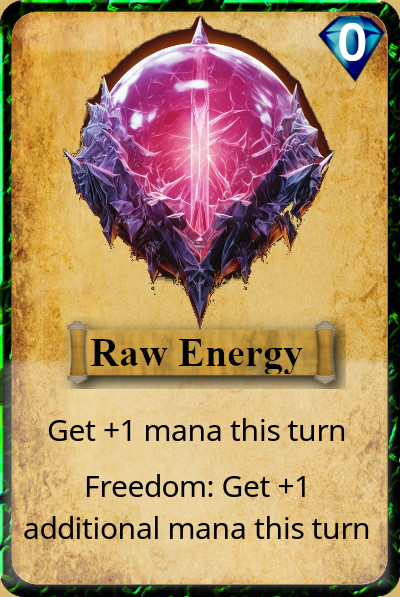
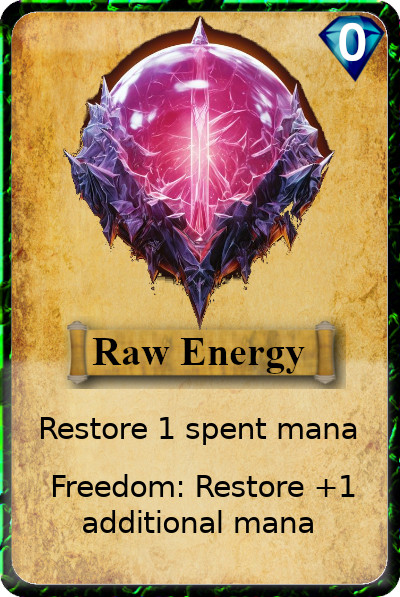
fixed the wording on raw energy

diff --git a/preload.js b/preload.js
@@ -8,8 +8,8 @@ Game design and programming: Copyright 2023 Erlend Kulander Kvitrud, all rights 
 
 let gameState = {};
 gameState.version = 1.304;
-let gameConfig = {};
 
+let gameConfig = {};
 gameConfig.levels = [
     "Level1Fight1", "Level1Fight2", "Level1Fight3",
     "Level2Fight1", "Level2Fight2", "Level2Fight3",
@@ -249,8 +249,7 @@ class Preload extends Phaser.Scene {
             {key: 'combatBoots', type: 'targetAll',      cost: 2, stancePoints: 0,  damage: 5, fire: 0, poison: 0, heal: 0, poisonRemove: 0, strength: 0, armor: 0, reduceTargetArmor: () => gameState.player.stancePoints > 0 ? 1 + gameState.player.stancePoints : 1, reduceTargetStrength: 0, drawCard: 0},
             {key: 'tantoBlade',  type: 'targetSelected', cost: 2, stancePoints: 0,  damage: () => gameState.player.stancePoints < 0 ? 12 - 2 * gameState.player.stancePoints : 12, fire: 0, poison: 0, heal: 0, poisonRemove: 0, strength: 0, armor: 0, reduceTargetArmor: 0, reduceTargetStrength: 0, drawCard: 0},
             {key: 'discontent',  type: 'buff',           cost: 1, stancePoints: () => (gameState.player.stancePoints > 0) ? -2 : (gameState.player.stancePoints < 0) ? 2 : 0, damage: 0, fire: 0, poison: 0, heal: 0, poisonRemove: 0, strength: 0, armor: 0, reduceTargetArmor: 0, reduceTargetStrength: 0, drawCard: 0},     
-            {key: 'shogunsShell',       type: 'permanent',        cost: 1, stancePoints: 0, damage: 0, fire: 0, poison: 0, heal: 0, poisonRemove: 0, strength: 0, armor: 0, reduceTargetArmor: 0, reduceTargetStrength: 0, drawCard: 0, token: 'shogunsShellToken'},
-            
+         
         ]; 
             
         gameState.bonusCards = [

diff --git a/mainmenu.js b/mainmenu.js
@@ -715,12 +715,12 @@ class Mainmenu extends Phaser.Scene {
         };
 
     // ----   USED TO SKIP MENU WHEN TESTING ----
-    gameState.playerName = 'Punk Rock Samurai';
-    const bonusCard = gameState.extraCards[0];
-    bonusCard.freePermanent = true;
-    gameState.deck.push(bonusCard);
-    gameState.extraCards.splice(gameState.extraCards.indexOf(bonusCard), 1);
-    self.scene.start('Level1Fight1');
+    // gameState.playerName = 'Punk Rock Samurai';
+    // const bonusCard = gameState.extraCards[0];
+    // bonusCard.freePermanent = true;
+    // gameState.deck.push(bonusCard);
+    // gameState.extraCards.splice(gameState.extraCards.indexOf(bonusCard), 1);
+    // self.scene.start('Level1Fight1');
 
     } // end of create()
 
